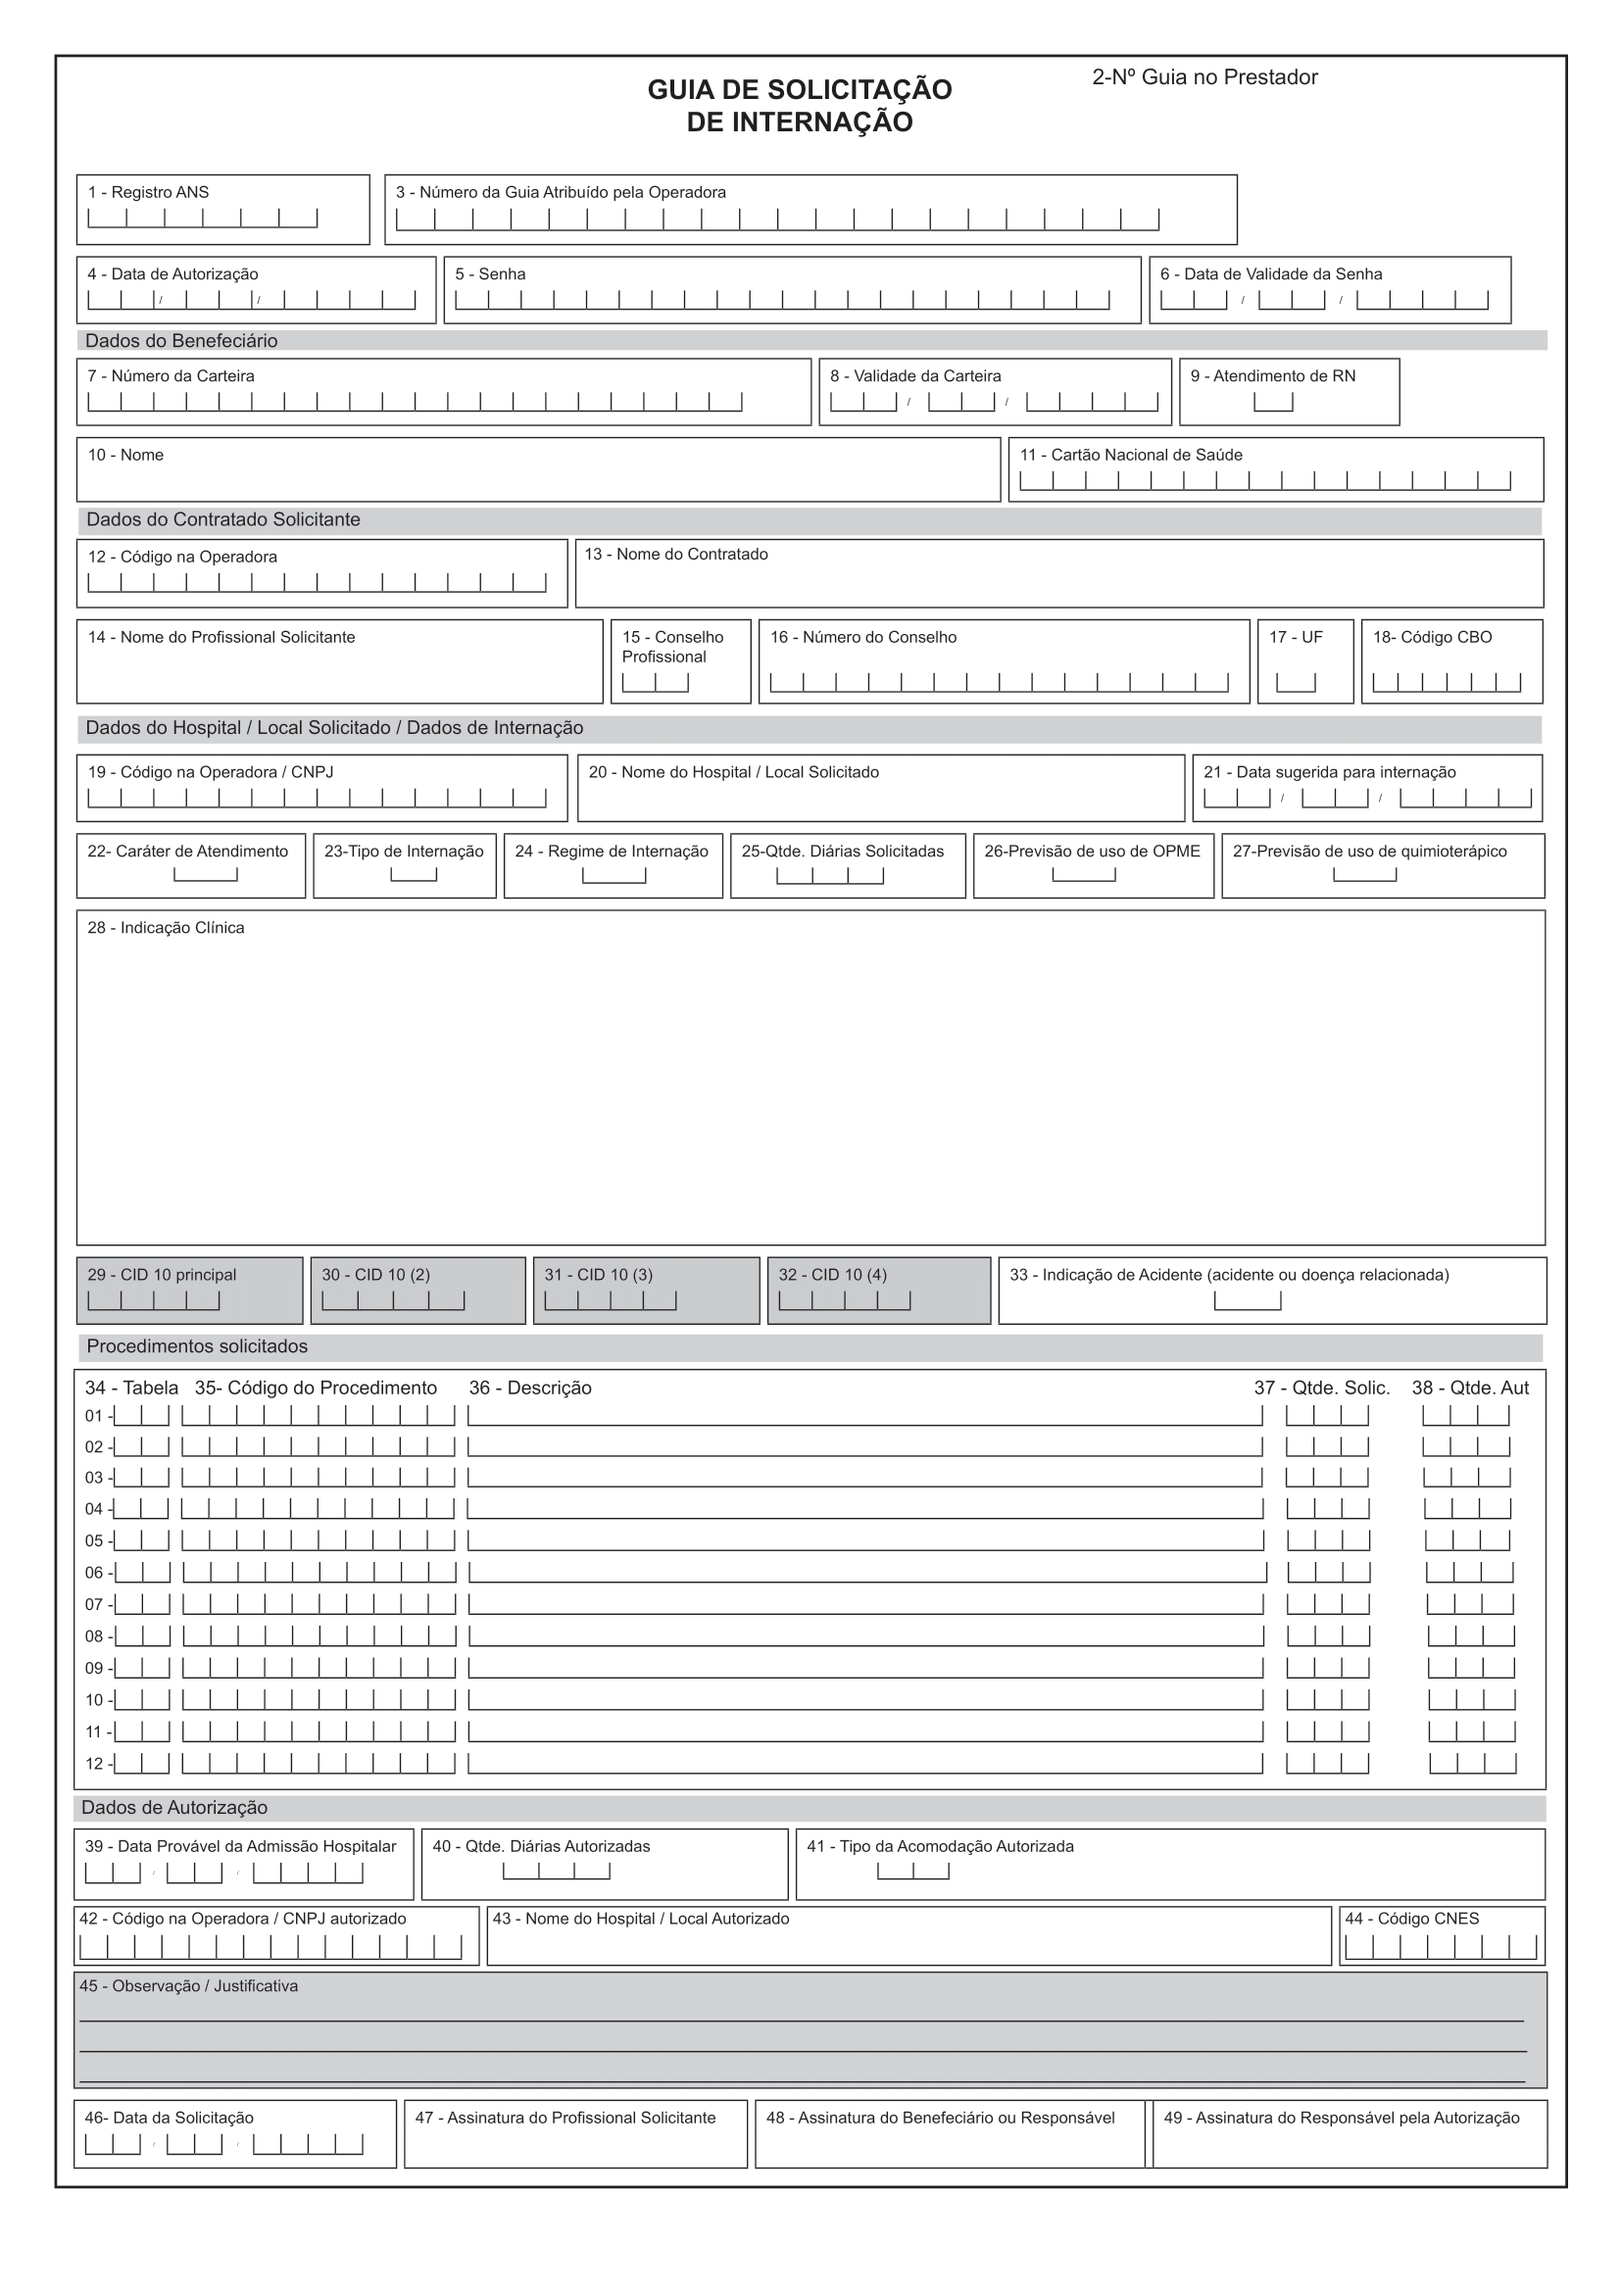
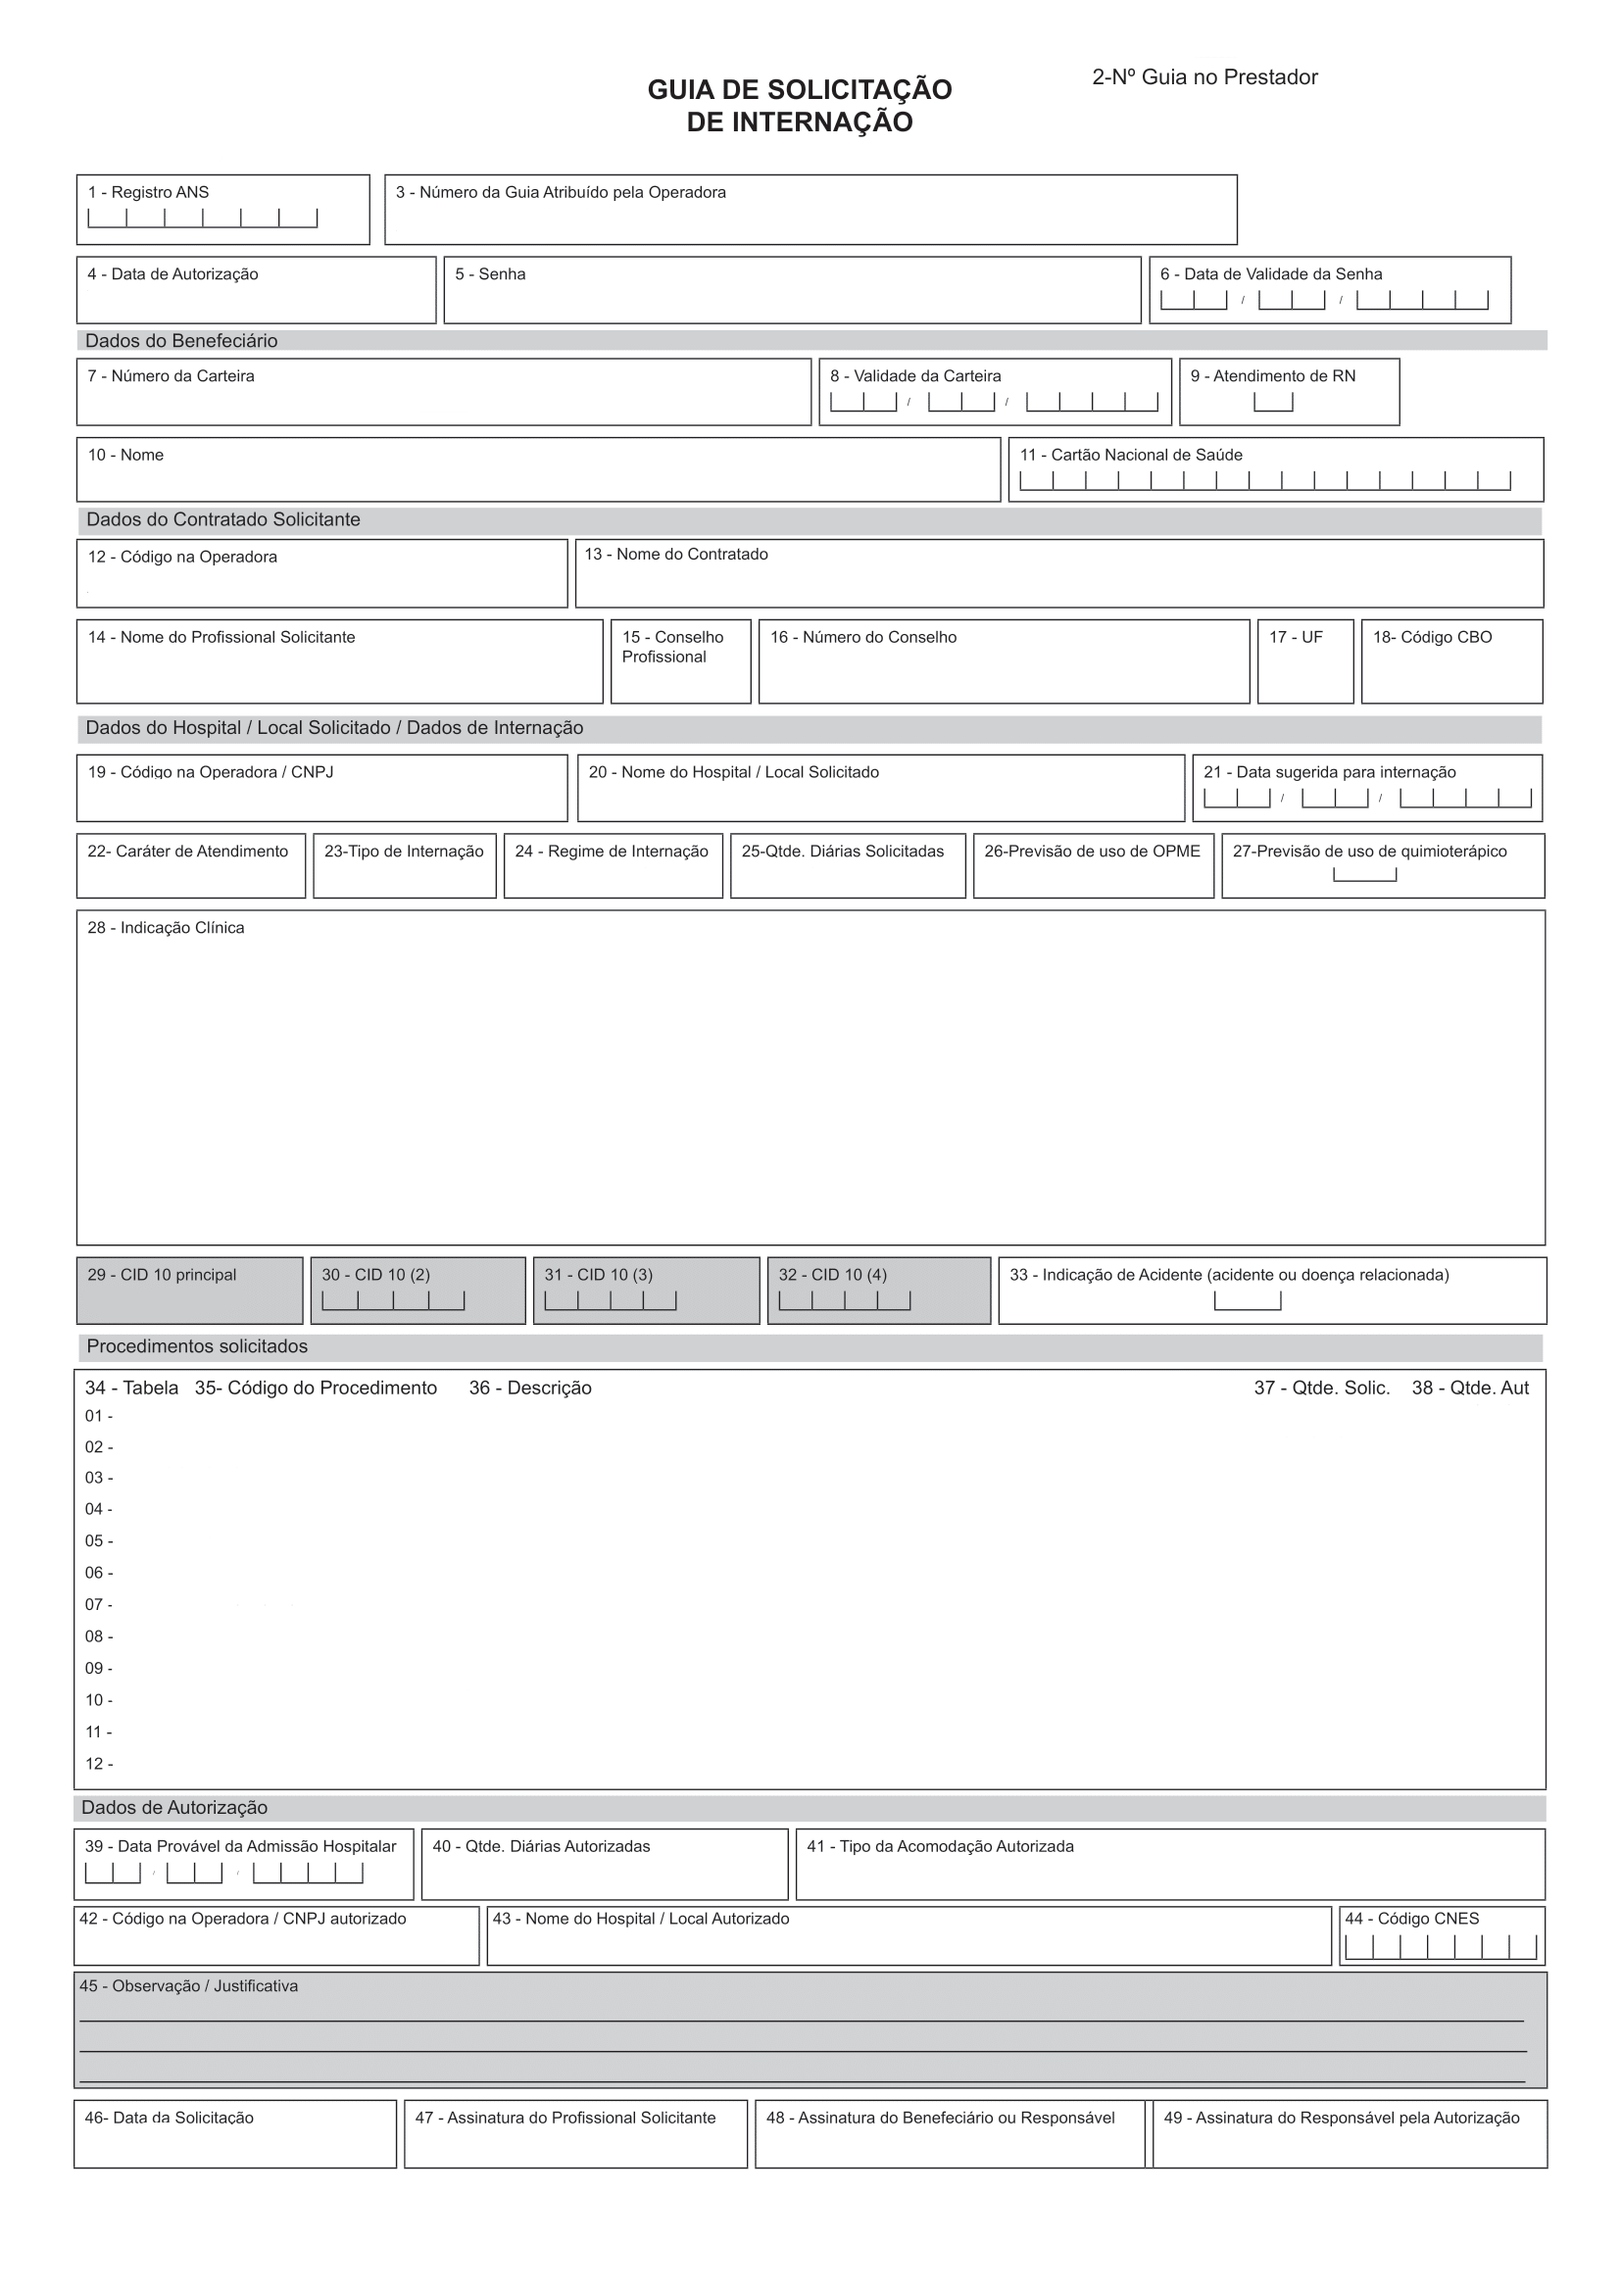
update 6 files

diff --git a/src/pages/Guias/Guias.jsx b/src/pages/Guias/Guias.jsx
@@ -121,7 +121,10 @@ export default function Guias({ pageActive }) {
                                 <option value="" selected disabled>Plano</option>
                                 <option value="amil">Amil</option>
                                 <option value="assim">Assim</option>
+                                <option value="bradesco">Bradesco</option>
                                 <option value="caberj">Caberj</option>
+                                <option value="camarj">Camarj</option>
+                                <option value="camperj">Camperj</option>
                                 <option value="cassi">Cassi</option>
                                 <option value="eletros">Eletros Saúde</option>
                                 <option value="fiosaude">Fio Saúde</option>
@@ -129,9 +132,12 @@ export default function Guias({ pageActive }) {
                                 <option value="goldencross">Golden Cross</option>
                                 <option value="intermedica">Intermédica</option>
                                 <option value="ipalerj">Ipalerj</option>
+                                <option value="mediservice">Mediservice</option>
+                                <option value="omint">Omint</option>
                                 <option value="petrobras">Petrobras</option>
                                 <option value="realgrandeza">Real Grandeza</option>
                                 <option value="caixa">Saúde Caixa</option>
+                                <option value="unafisco">Unafisco</option>
                                 <option value="unimed">Unimed</option>
                                 <option value="vale">Vale</option>
                             </select>
@@ -157,13 +163,27 @@ export default function Guias({ pageActive }) {
                             <input type='date' {...register("dateSol")} />
                             <label htmlFor=''>Data da Autorização:</label>
                             <input type='date' {...register("dateAut")} />
-                            <div className="formField__data">
-                            </div>
+                            <label htmlFor=''>Local de Realização:</label>
+                            <select {...register('contratado')}>
+                                <option value="" ></option>
+                                <option value="chn" >Complexo Hospitalar de Niterói</option>
+                                <option value="hi" >Hospital Icaraí</option>
+
+                            </select>
+
                         </fieldset>
                         <fieldset>
                             <h3 className="formField-title">Dados da Internação</h3>
                             <label htmlFor=''>Indicação Clínica:</label>
                             <textarea spellCheck='false' {...register("ind")}></textarea>
+                            <label htmlFor=''>CID:</label>
+                            <input type='text' {...register('cid')} />
+                            <label htmlFor=''>OPME:</label>
+                            <select {...register('opme')}>
+                                <option value="N" >Não</option>
+                                <option value="S" >Sim</option>
+
+                            </select>
                             <label htmlFor=''>Tipo de Internação:</label>
                             <select {...register("type")}>
                                 <option value="1">Clínica</option>

diff --git a/src/pages/Guia/Guia.css b/src/pages/Guia/Guia.css
@@ -59,7 +59,6 @@
 .dados p {
     max-height: 18px;
     min-height: 18px;
-    background: white;
     margin: 14px 0;
     margin-left: 50px;
     padding-left: 5px;
@@ -198,18 +197,38 @@ p#diariaSol {
     width: 74px;
 }
 
-p#anexo {
+p#opme {
+    display: inline;
+    top: -77px;
+    left: 67px;
+    /* width: 100px; */
+    position: relative;
+}
+
+#anexo {
+    width: 895px;
+    max-height: none;
+    height: 170px;
+    padding: 0 0 0 5px;
+    margin: 11px 0 0 50px;
     position: relative;
     top: -70px;
-    width: 850px;
     text-transform: none;
+    text-overflow: wrap;
+    font-size: 14px;
+    color: #000;
+    resize: none;
+    background: white;
+    border: none;
+    overflow: hidden;
 }
 
 p#cid {
     background: none;
     position: relative;
-    top: 90px;
+    top: -46px;
     width: 113px;
+    text-align: center;
 }
 
 .tuss {
@@ -217,7 +236,7 @@ p#cid {
     width: 868px;
     height: 235px;
     position: relative;
-    top: 142px;
+    top: -10px;
     left: 68px;
     display: grid;
     grid-template-columns: 50px 180px 470px 80px 80px;
@@ -263,53 +282,43 @@ p#cid {
 
 #diariaAut {
     position: relative;
-    top: 174px;
+    top: 23px;
     left: 232px;
     text-align: center;
 }
 
 #leito {
     position: relative;
-    top: 144px;
+    top: -10px;
     left: 479px;
 }
 
 #cnpj3 {
-    position: relative;
     width: 240px;
-    top: 155px;
+    position: relative;
+    top: 3px;
     left: -3px;
 
 }
 
 #contratado3 {
-    position: relative;
     width: 515px;
-    top: 121px;
+    position: relative;
+    top: -29px;
     left: 252px
 }
 
 #dataSol {
     position: relative;
-    top: 211px;
+    top: 62px;
     width: 181px;
     left: -3px;
-}
-
-#borda {
-    border: 7px solid #fff;
-    width: 939px;
-    position: relative;
-    height: 1307px;
-    top: -1090px;
-    left: 31px;
-    z-index: 0;
 }
 
 #logoImage {
     background: #fff;
     position: relative;
-    top: -2391px;
+    top: -1239px;
     width: 200px;
     height: 67px;
     left: 46px;
@@ -325,7 +334,7 @@ p#cid {
     .btn_backGuia {
         display: none;
     }
-    
+
     .papel {
         margin-left: 0px;
         position: relative;

diff --git a/src/pages/Guia/Guia.jsx b/src/pages/Guia/Guia.jsx
@@ -23,14 +23,15 @@ export default function Guia({ data, func }) {
                 <p id="crm">{data.crm}</p>
                 <p id="uf">RJ</p>
                 <p id="cbo">{data.cbo}</p>
-                <p id="cnpj2"></p>
-                <p id="contratado2"></p>
+                <p id="cnpj2">{data.contratado === 'chn' && '60884855001207'} {data.contratado === 'hi' && '31671480000308'}</p>
+                <p id="contratado2">{data.contratado === 'chn' && 'CHN - Complexo Hospitalar de Niterói'} {data.contratado === 'hi' && 'Hospital Icaraí'}</p>
                 <p id="carater">{data.carater}</p>
                 <p id="tipo">{data.type}</p>
                 <p id="regime">1</p>
                 <p id="diariaSol">{data.daily}</p>
-                <p id="anexo">{data.ind}</p>
-                <p id="cid"></p>
+                <p id='opme'>{data.opme}</p>
+                <textarea id="anexo" defaultValue={data.ind} disabled></textarea>
+                <p id="cid">{data.cid}</p>
                 <div className="tuss">
                     <div className="tabela">
                         <p id="tb1">{data.tuss1 && "22"}</p>
@@ -78,7 +79,6 @@ export default function Guia({ data, func }) {
                 <p id="cnpj3"></p>
                 <p id="contratado3"></p>
                 <p id="dataSol">{data.dateSol.split('-').reverse().join('/')}</p>
-                <div id="borda"></div>
                 <div id="logoImage">
                     <img id="logo" src={`./plansLogo/${data.plan}.png`} alt="logo do plano de saúde" />
                 </div>

diff --git a/src/pages/Guias/Guias.css b/src/pages/Guias/Guias.css
@@ -120,6 +120,7 @@ option {
 
 .formContainer-guia fieldset textarea {
     width: calc(70% - 10px);
+    height: 60px;
     padding: 3px 5px;
     border-radius: 5px;
     outline: none;
@@ -182,8 +183,29 @@ fieldset button {
     transition: 300ms;
     font-weight: 500;
 
+
+    padding: 10px 30px;
+    font-size: 16px;
+    color: #fdfdfd;
+    font-weight: 500;
+    background: #4b72aa;
+    border: none;
+    border-radius: 5px;
+    cursor: pointer;
+    box-shadow: 3px 3px 5px #0003;
+    transition: 300ms;
+
     &:hover {
-        background: #fff;
+        filter: brightness(1.2);
+        -webkit-filter: brightness(1.2);
+    }
+
+    &:nth-last-of-type(1) {
+        background: none;
+        border: 1px solid #95b5e0;
+        color: #4b72aa;
+        box-shadow: none;
+
     }
 }
 

diff --git a/src/App.jsx b/src/App.jsx
@@ -1,10 +1,8 @@
 import { useState } from 'react'
 import './App.css'
-import Header from './components/Shared/Header'
 import Plans from './pages/Plans/Plans'
 import Terms from './pages/Terms/Terms'
 import Guias from './pages/Guias/Guias'
-import Guia from './pages/Guia/Guia'
 import Label from './pages/Label/Label'
 import Ramais from './pages/Ramais/Ramais'
 import Sites from './pages/Sites/Sites'
